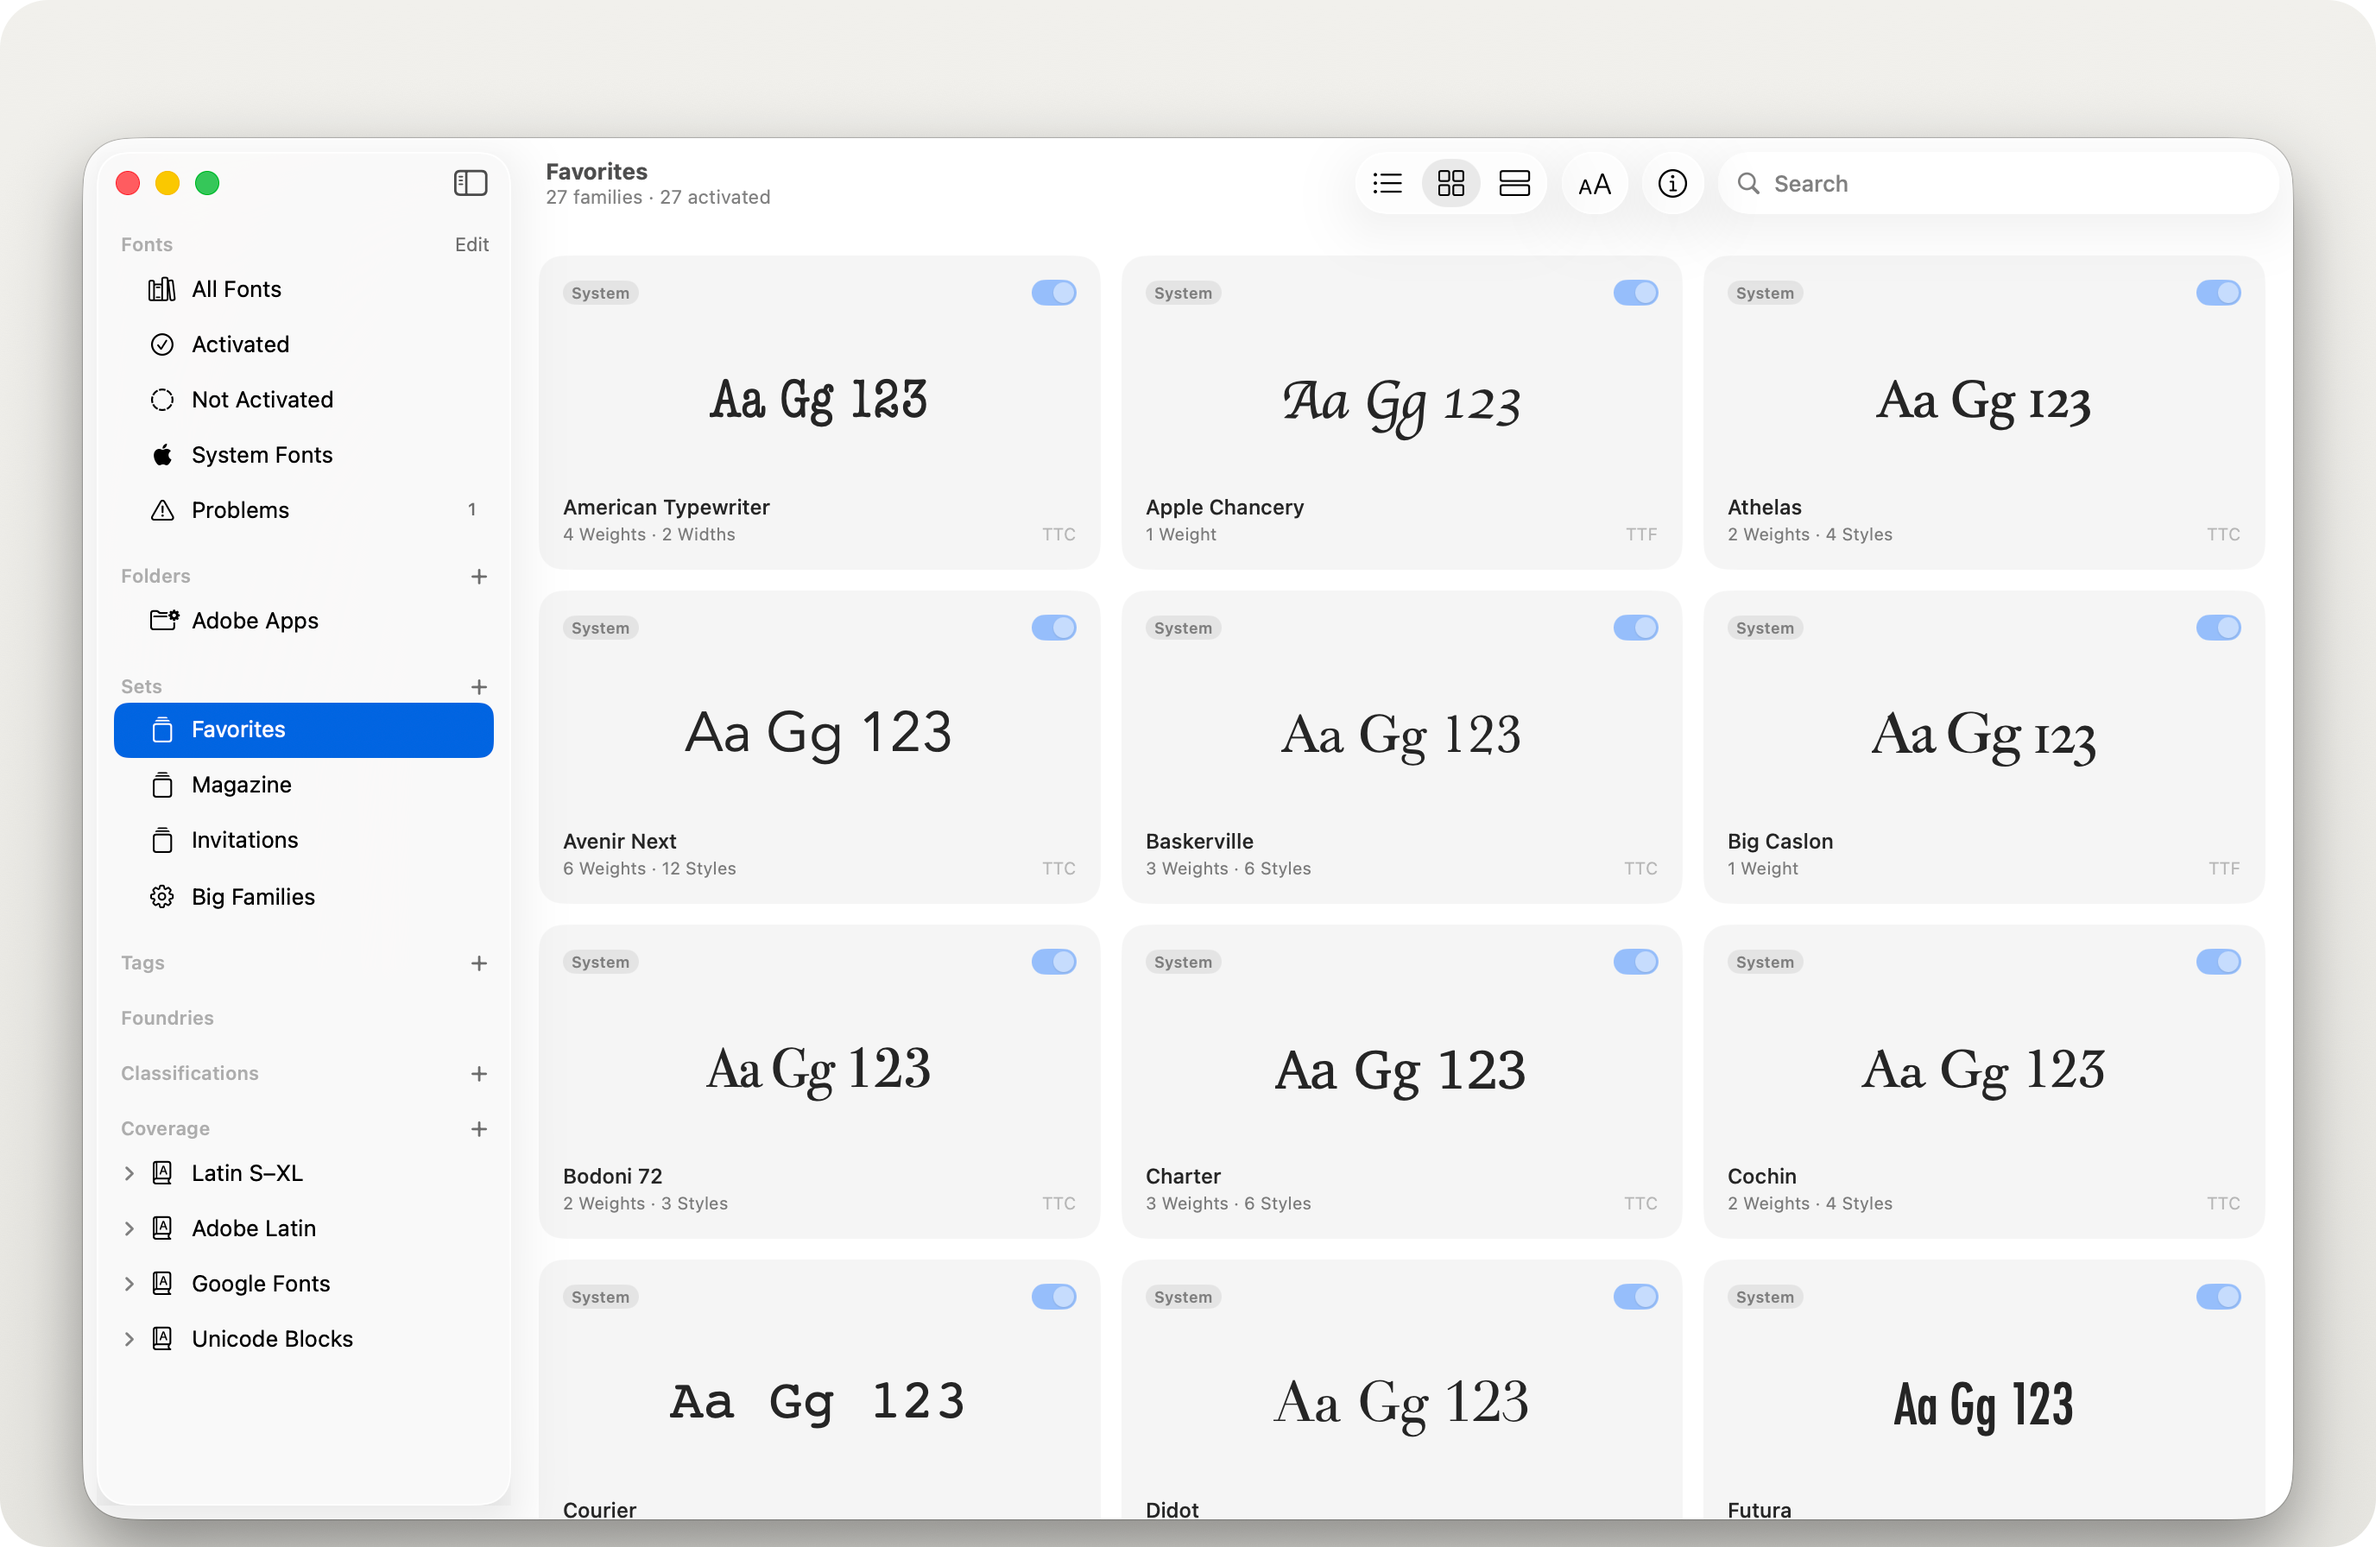
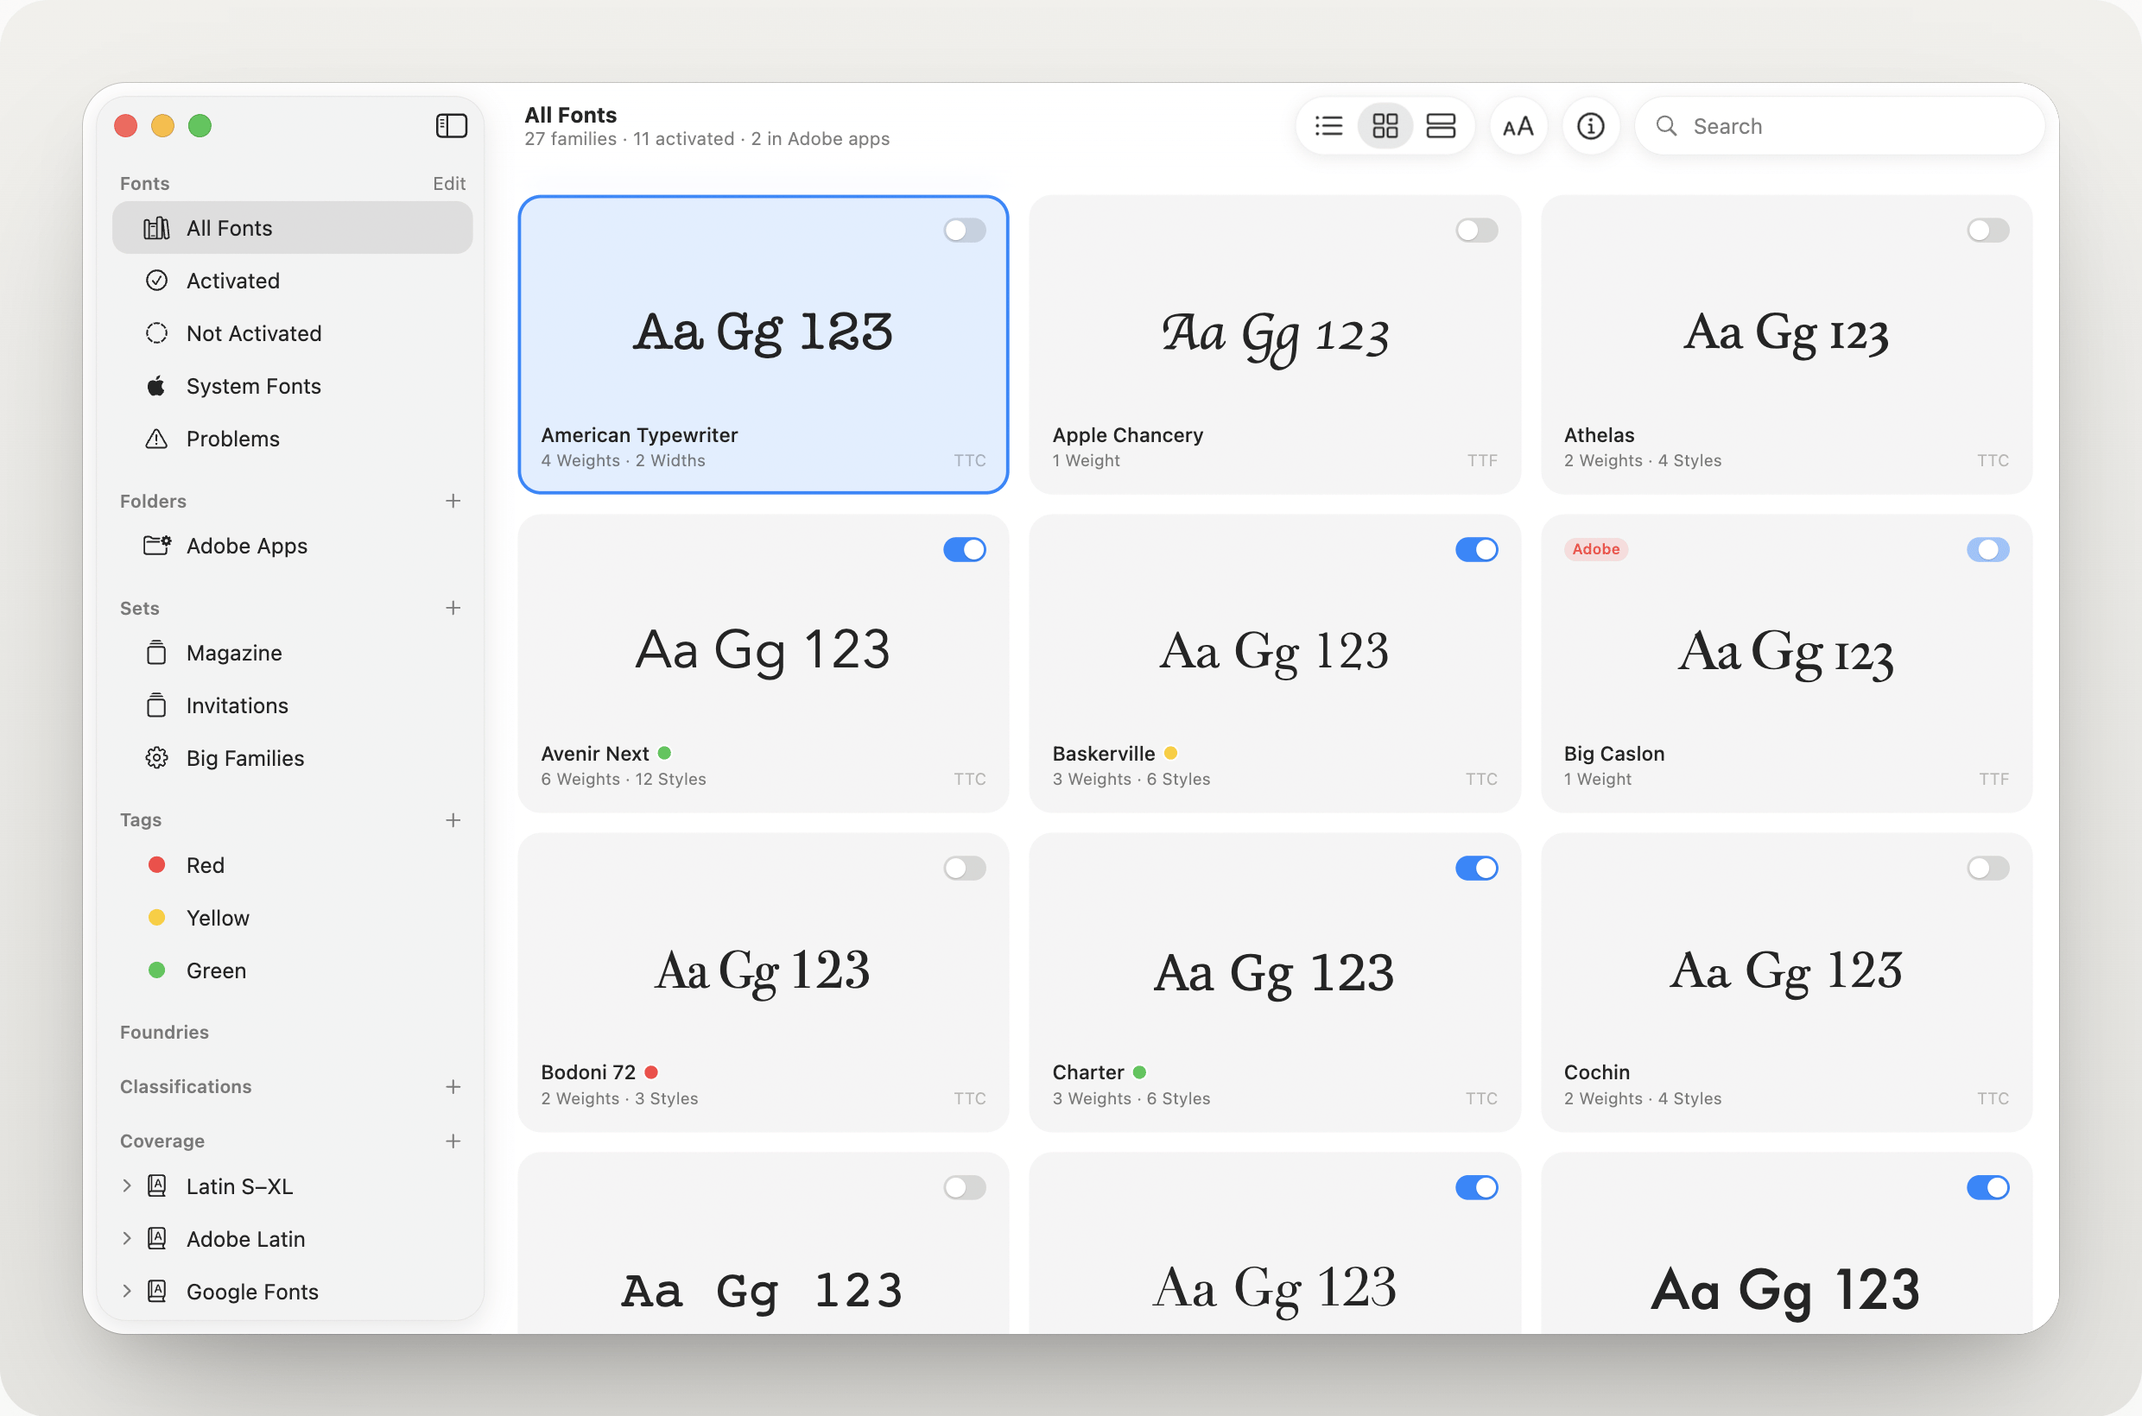
Show All Fonts in the README's screenshot: tiles of macOS fonts previewed in themselves, with sets and tags in the sidebar

diff --git a/README.md b/README.md
@@ -1,6 +1,6 @@
 # Cicero
 
-![Cicero’s window: a set of fonts as a grid of tiles, with the sidebar on the left](docs/screenshot.png)
+![Cicero’s window: All Fonts as a grid of tiles, each family previewed in itself, with the sidebar on the left](docs/screenshot.png)
 
 **[Download the latest version](https://github.com/opr-inzn/cicero/releases/latest/download/Cicero.dmg)** · [Help](help/README.md) · [All versions and release notes](https://github.com/opr-inzn/cicero/releases) · Requires macOS 26 on Apple silicon.
 
